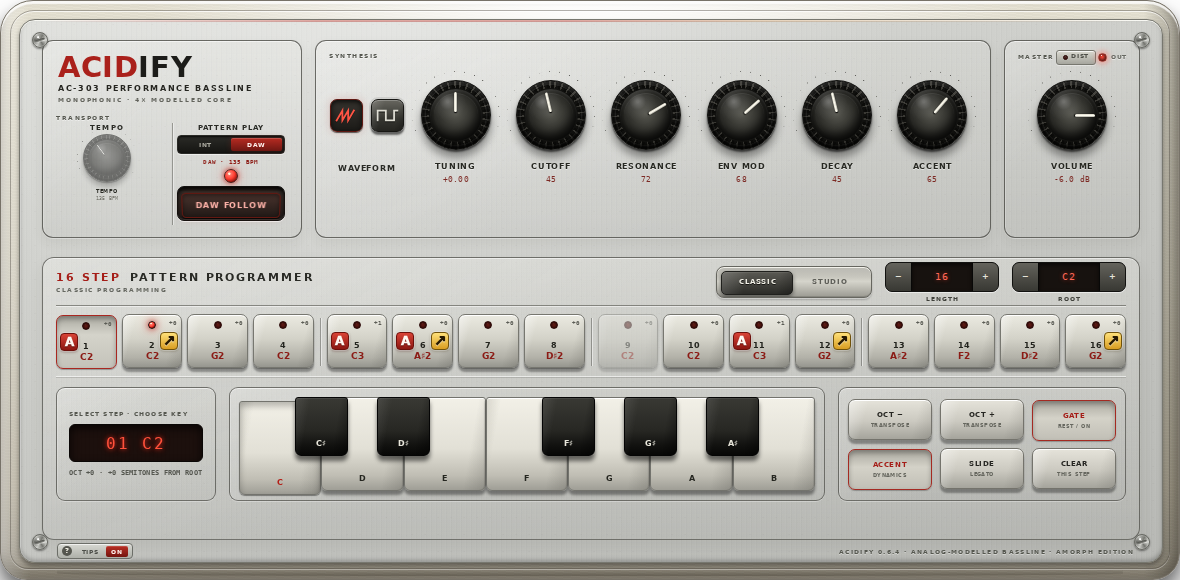
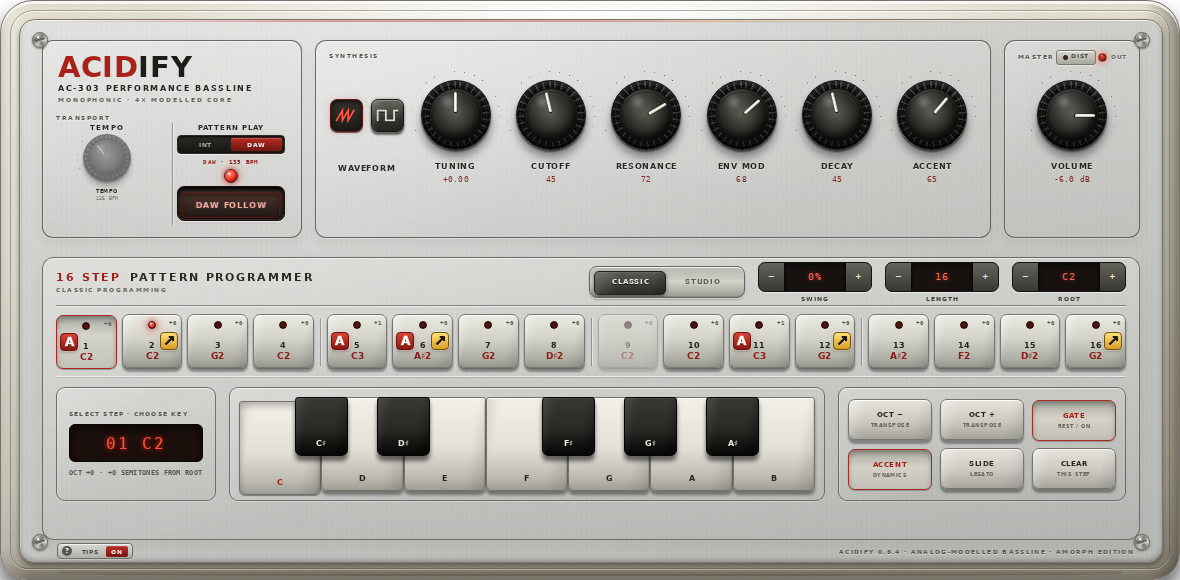
Add synchronized Swing control

Changed region(s): [[0.4881, 0.4345, 0.7627, 0.5276]]

diff --git a/ACIDIFYUI.js b/ACIDIFYUI.js
@@ -21,6 +21,7 @@ const ACIDIFY_GLOBALS = [
   { id: "param47", type: "dial",    label: "DRIVE",        min: 0,  max: 1,   step: 0.001, init: 0.35, format: v => `${Math.round(v * 100)}` },
   { id: "param48", type: "dial",    label: "MIX",          min: 0,  max: 1,   step: 0.001, init: 1,    format: v => `${Math.round(v * 100)}%` },
   { id: "param49", type: "toggle",  label: "CLOCK",        min: 0,  max: 1,   step: 1, init: 0 },
+  { id: "param50", type: "stepper", label: "SWING",        min: 0,  max: 100, step: 1, init: 0,        format: v => `${Math.round(v)}%` },
 ];
 
 const STEP_PITCH_DEFAULTS = [0, 0, 7, 0, 12, 10, 7, 3, 0, 0, 12, 7, 10, 5, 3, 7];
@@ -54,6 +55,7 @@ const CONTROL_TOOLTIPS = {
   param47: "Sets the amount of drive applied by the selected distortion character.",
   param48: "Blends the distorted signal with the clean instrument output.",
   param49: "Selects the clock source. INT uses the internal tempo and RUN/STOP; DAW follows host tempo, transport and position.",
+  param50: "Adds swing to each pair of sixteenth notes. 0% is straight; 100% reaches a 2:1 triplet feel.",
 };
 
 function noteName(note) {
@@ -3651,6 +3653,10 @@ class AcidifyPatchView extends HTMLElement {
             title="Switch editor · keyboard shortcut M">
             <i></i><span class="classic-label">CLASSIC</span><span class="studio-label">STUDIO</span>
           </button>
+          <div class="control swing-control" data-param="param50" data-endpoint-id="param50" data-min="0" data-max="100" data-step="1" data-init="0" data-control="stepper">
+            <div class="stepper"><button data-step="-1">−</button><span class="stepper-value">--</span><button data-step="1">+</button></div>
+            <div class="stepper-label">SWING</div>
+          </div>
           <div class="control" data-param="param11" data-endpoint-id="param11" data-min="1" data-max="16" data-step="1" data-init="16" data-control="stepper">
             <div class="stepper"><button data-step="-1">−</button><span class="stepper-value">--</span><button data-step="1">+</button></div>
             <div class="stepper-label">LENGTH</div>

diff --git a/mockup/preview.html b/mockup/preview.html
@@ -18,7 +18,7 @@
       ["param5", .45], ["param6", .65], ["param7", 0], ["param8", -6],
       ["param9", 128], ["param10", 0], ["param11", 16], ["param12", 36],
       ["param45", 0], ["param46", 0], ["param47", .35], ["param48", 1],
-      ["param49", 0],
+      ["param49", 0], ["param50", 0],
     ]);
     [0, 0, 7, 0, 12, 10, 7, 3, 0, 0, 12, 7, 10, 5, 3, 7]
       .forEach((v, i) => defaults.set(`param${13 + i}`, v));
